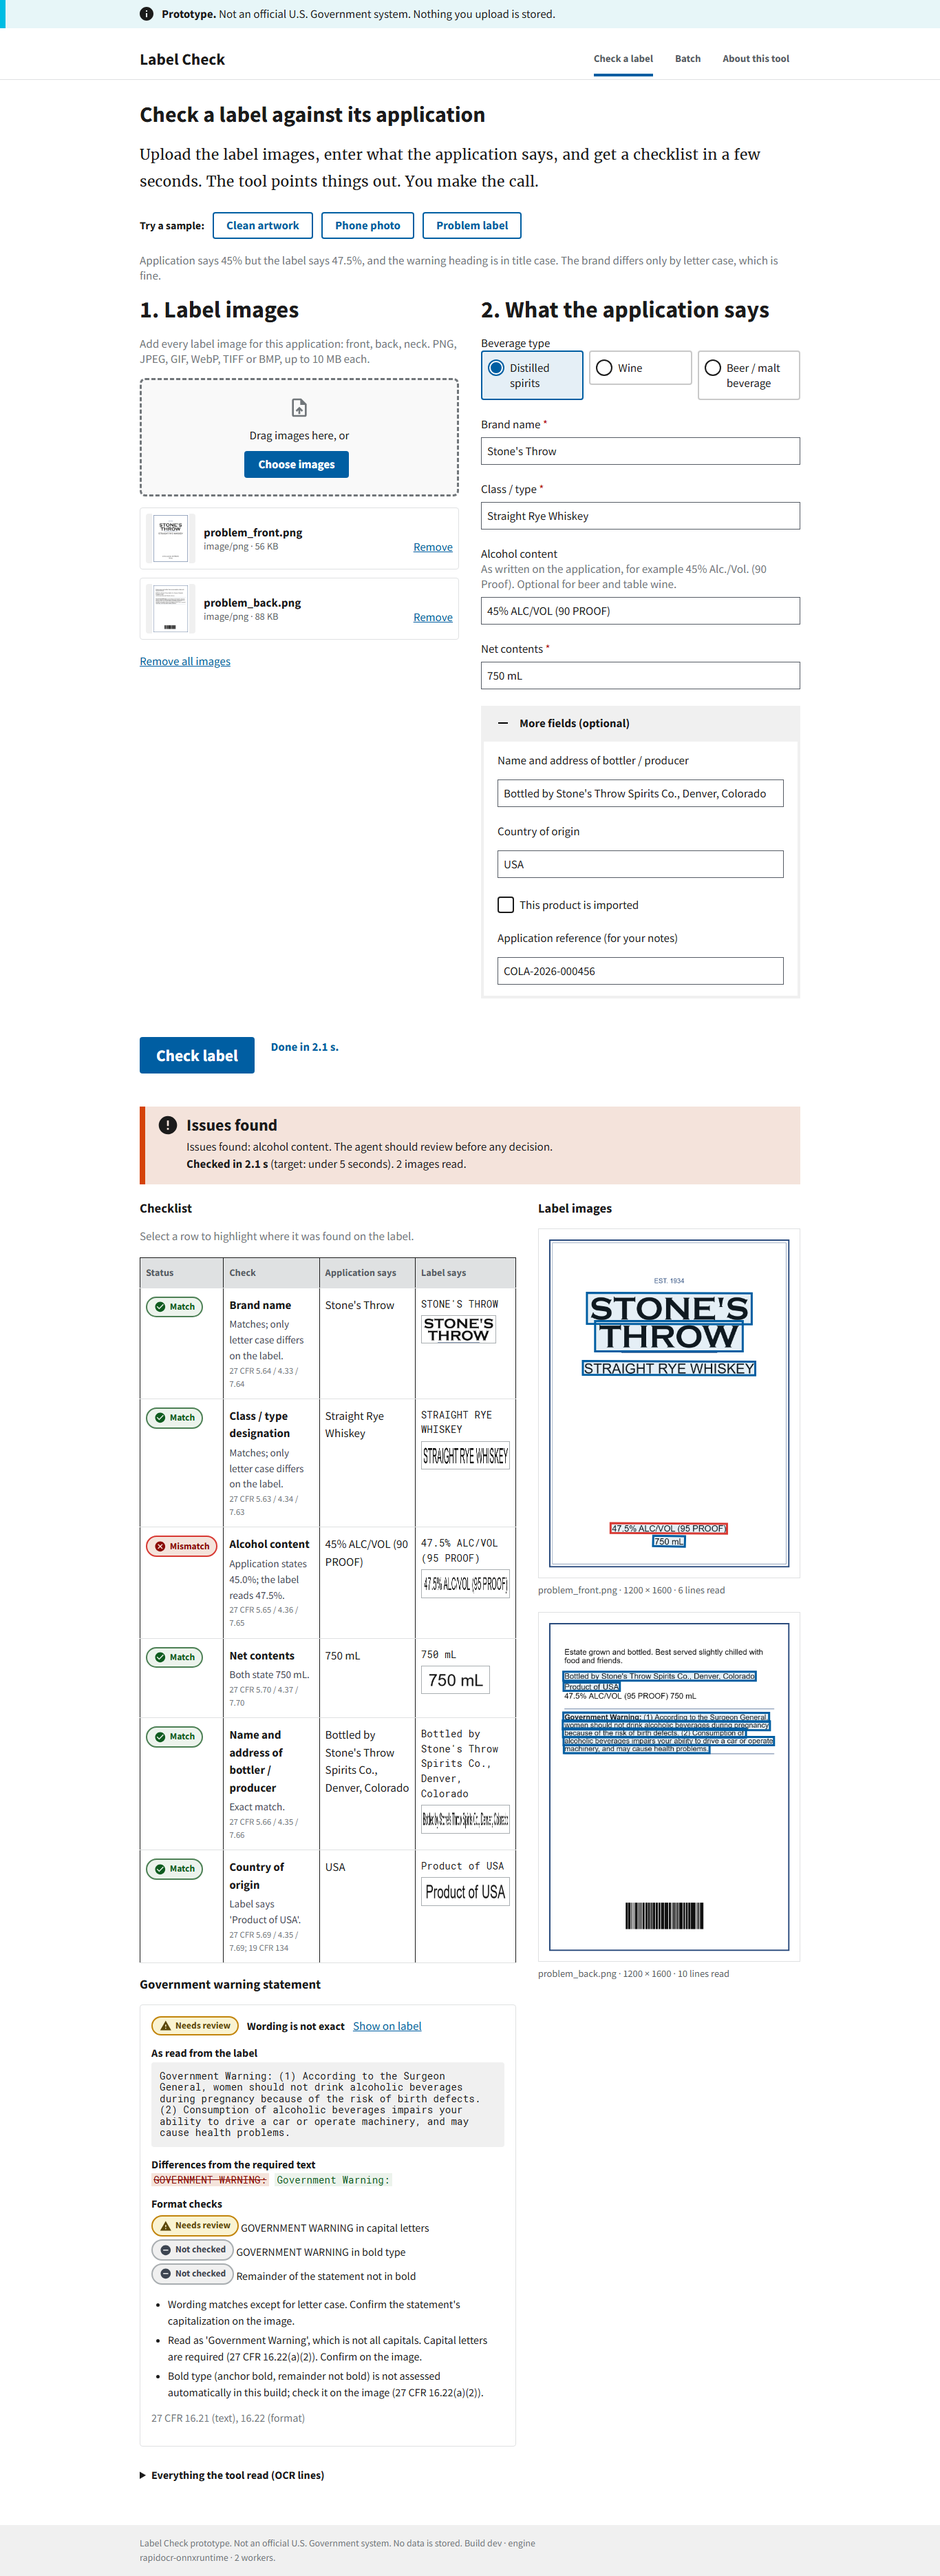
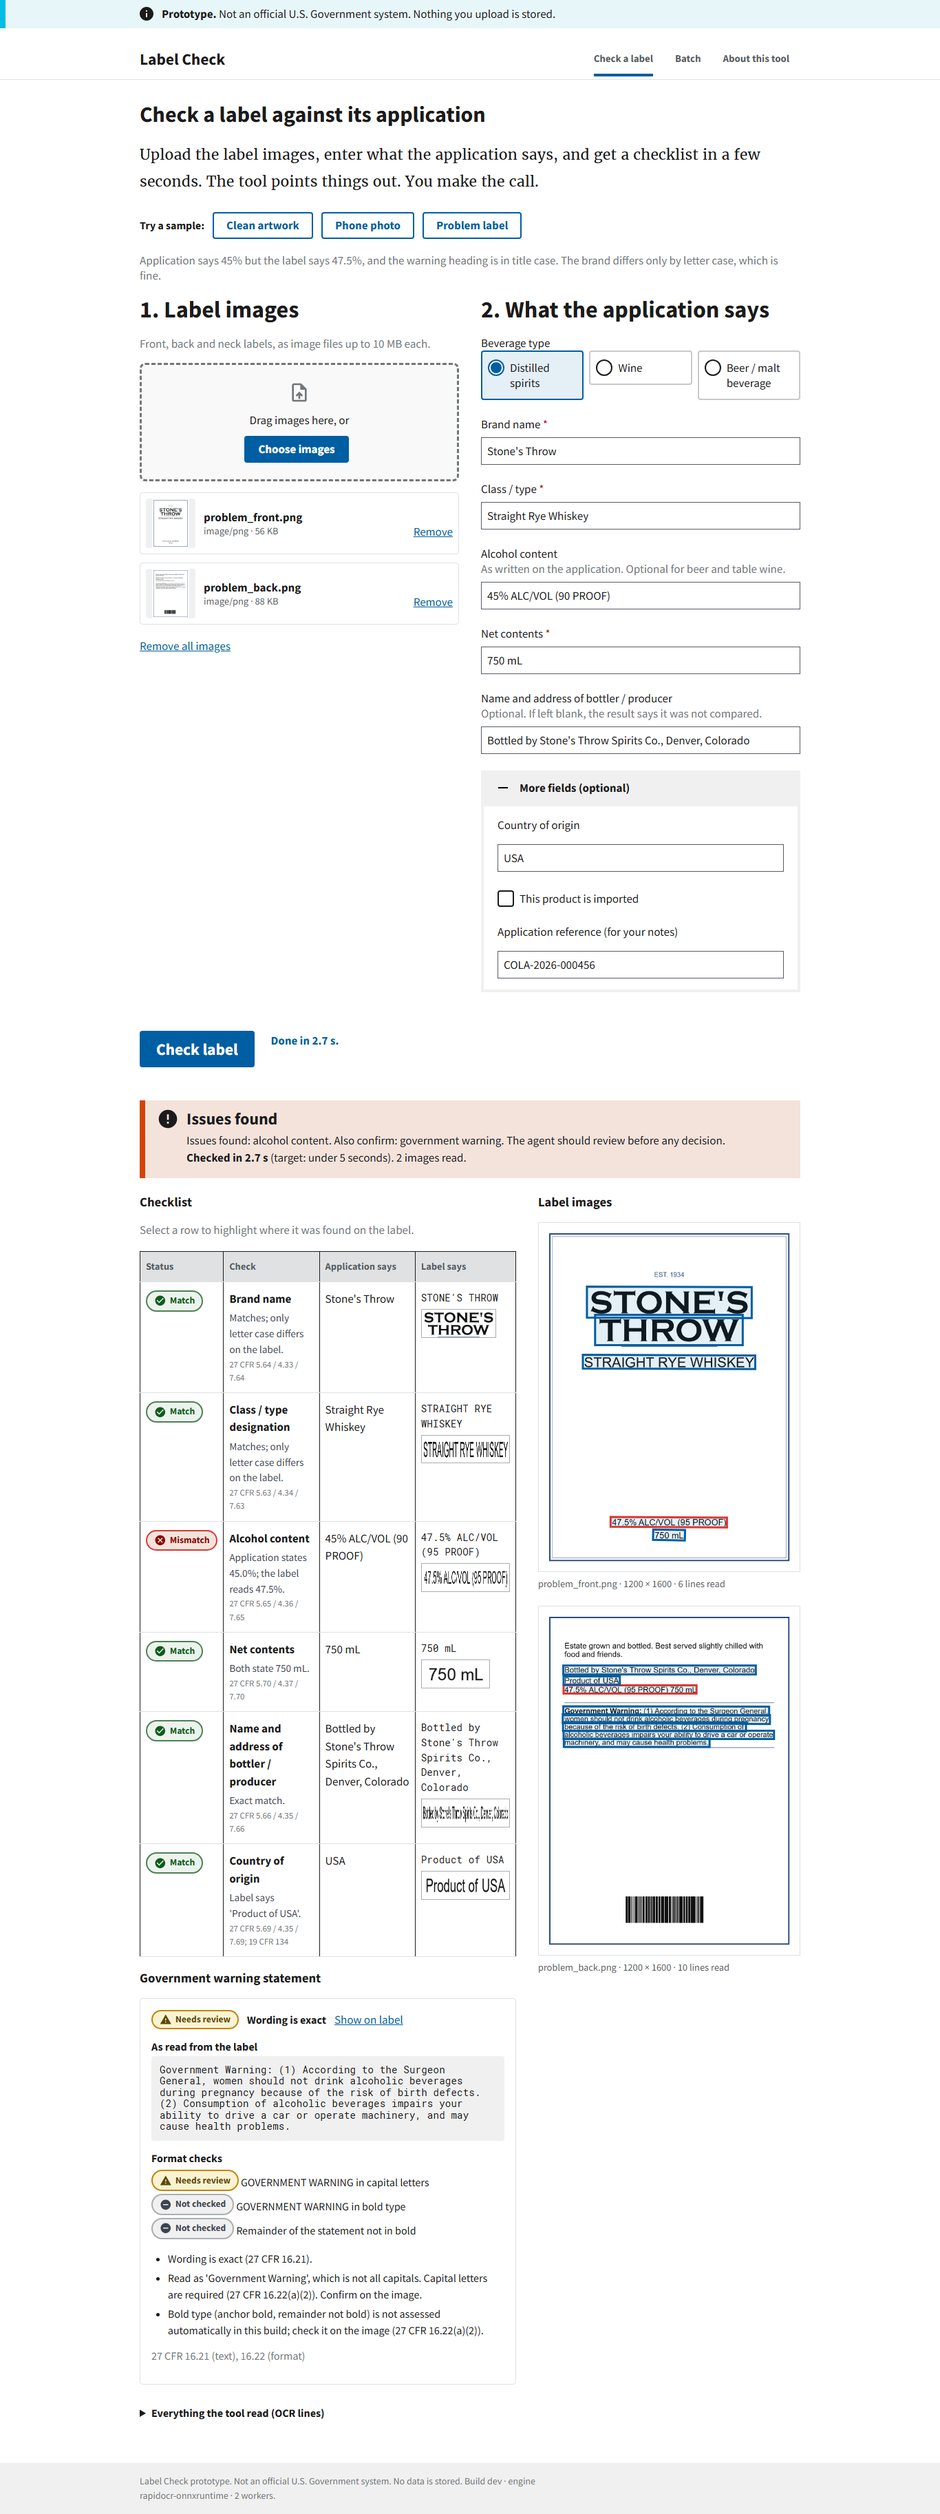
Simpler copy on both screens: one-sentence batch intro, spreadsheet marked optional under the drop zone, shorter hints
Before Saturday's observed usability test. No behaviour changes; every id and class the browser
tests use is unchanged, both smokes pass locally, README screenshots refreshed.

Claude-Session: https://claude.ai/code/session_01MAN5zL1QJkgZPJ16fWDkkh

diff --git a/app/static/index.html b/app/static/index.html
@@ -63,7 +63,7 @@
             <div class="tablet:grid-col-6">
               <fieldset class="usa-fieldset">
                 <legend class="usa-legend usa-legend--large">1. Label images</legend>
-                <p class="usa-hint" id="drop-hint">Add every label image for this application: front, back, neck. PNG, JPEG, GIF, WebP, TIFF or BMP, up to 10 MB each.</p>
+                <p class="usa-hint" id="drop-hint">Front, back and neck labels, as image files up to 10 MB each.</p>
                 <div id="dropzone" class="dropzone" aria-describedby="drop-hint">
                   <svg class="usa-icon usa-icon--size-4 text-base" aria-hidden="true" role="img"><use href="#upload_file"></use></svg>
                   <p class="margin-y-1">Drag images here, or</p>
@@ -95,14 +95,14 @@
                 <input class="usa-input" id="class_type" name="class_type" type="text" required autocomplete="off" placeholder="Kentucky Straight Bourbon Whiskey">
 
                 <label class="usa-label" for="alcohol_content">Alcohol content</label>
-                <span class="usa-hint" id="alc-hint">As written on the application, for example 45% Alc./Vol. (90 Proof). Optional for beer and table wine.</span>
+                <span class="usa-hint" id="alc-hint">As written on the application. Optional for beer and table wine.</span>
                 <input class="usa-input" id="alcohol_content" name="alcohol_content" type="text" autocomplete="off" aria-describedby="alc-hint" placeholder="45% Alc./Vol. (90 Proof)">
 
                 <label class="usa-label" for="net_contents">Net contents <abbr title="required" class="usa-hint usa-hint--required">*</abbr></label>
                 <input class="usa-input" id="net_contents" name="net_contents" type="text" required autocomplete="off" placeholder="750 mL">
 
                 <label class="usa-label" for="bottler">Name and address of bottler / producer</label>
-                <span class="usa-hint" id="bottler-hint">Optional here, but a required label element; when left blank the result says it was not compared.</span>
+                <span class="usa-hint" id="bottler-hint">Optional. If left blank, the result says it was not compared.</span>
                 <input class="usa-input" id="bottler" name="bottler" type="text" autocomplete="off" aria-describedby="bottler-hint">
 
                 <div class="usa-accordion usa-accordion--bordered margin-top-3">
@@ -164,7 +164,7 @@
     <section id="view-batch" class="usa-section padding-top-4" data-view-panel="batch" hidden>
       <div class="grid-container">
         <h1 class="margin-top-0">Check a batch of applications</h1>
-        <p class="usa-intro measure-6">For the importer who sends 300 at once. Add all the label images, add a spreadsheet of what each application says, and watch the results come in. Images are sent to the server one request at a time to be read and are discarded immediately; the spreadsheet rows are sent for comparison; nothing is stored.</p>
+        <p class="usa-intro measure-6">Add the label images and, if you have one, a spreadsheet of what each application says; results appear as each application is read.</p>
 
         <div class="sample-bar">
           <span class="text-bold">Try it:</span>
@@ -172,10 +172,10 @@
         </div>
 
         <div class="grid-row grid-gap-4">
-          <div class="tablet:grid-col-6">
+          <div class="tablet:grid-col-8">
             <fieldset class="usa-fieldset">
               <legend class="usa-legend usa-legend--large">1. Label images</legend>
-              <p class="usa-hint" id="batch-drop-hint">Drop many images, or choose a whole folder. Name files with the application reference first, for example <code>COLA-123_front.png</code>, and pairing is automatic.</p>
+              <p class="usa-hint" id="batch-drop-hint">Drop the images or choose a folder. Files named with the application reference first, like <code>COLA-123_front.png</code>, pair themselves.</p>
               <div id="batch-dropzone" class="dropzone" aria-describedby="batch-drop-hint">
                 <svg class="usa-icon usa-icon--size-4 text-base" aria-hidden="true" role="img"><use href="#folder_open"></use></svg>
                 <p class="margin-y-1">Drag images here, or</p>
@@ -187,10 +187,10 @@
               <p id="batch-image-count" class="text-bold margin-top-1" aria-live="polite"></p>
             </fieldset>
           </div>
-          <div class="tablet:grid-col-6">
+          <div class="tablet:grid-col-8">
             <fieldset class="usa-fieldset">
-              <legend class="usa-legend usa-legend--large">2. Application spreadsheet (CSV)</legend>
-              <p class="usa-hint">One row per application. <a href="/api/v1/csv/template" download>Download the template</a>. Without a spreadsheet, the tool lists what it can read from each image.</p>
+              <legend class="usa-legend usa-legend--large">2. Spreadsheet (optional)</legend>
+              <p class="usa-hint">One row per application, as CSV (<a href="/api/v1/csv/template" download>download the template</a>). Without it, the tool only lists what it reads from each image.</p>
               <label class="usa-button usa-button--outline margin-top-1" for="batch-csv">Choose CSV</label>
               <input id="batch-csv" type="file" accept=".csv,text/csv" class="usa-sr-only">
               <div id="batch-csv-summary" class="margin-top-1" aria-live="polite"></div>
